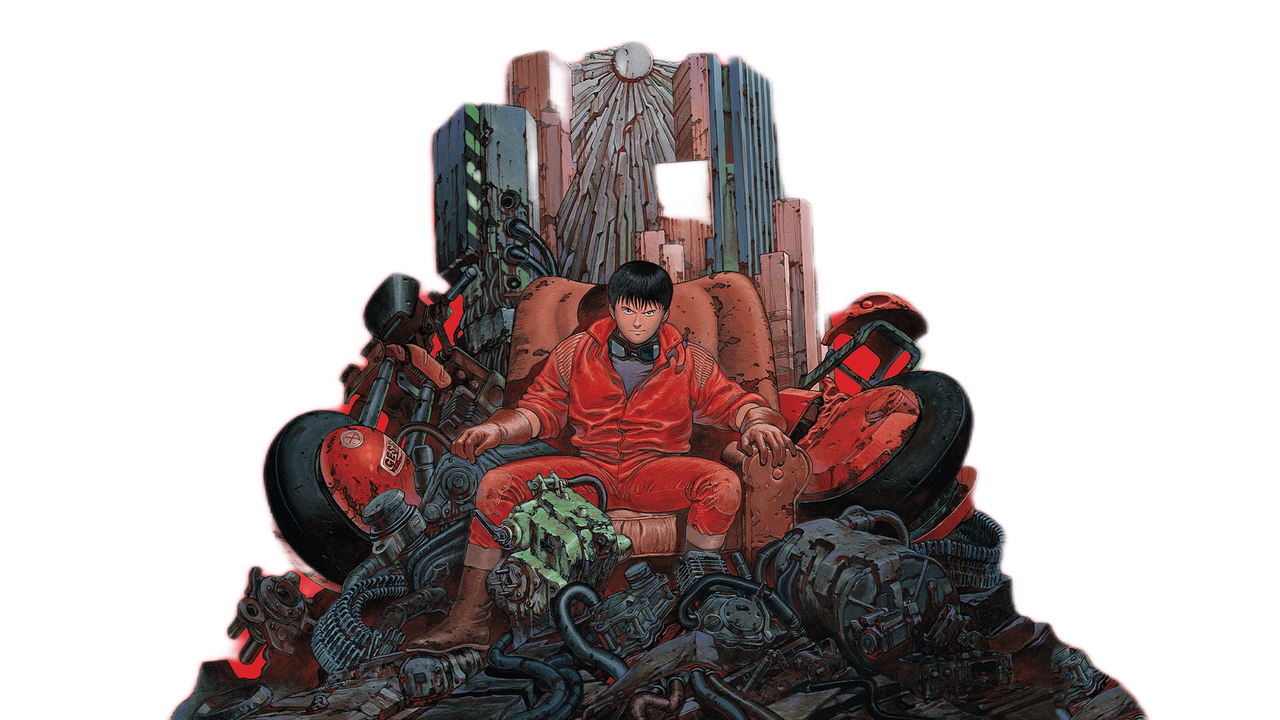
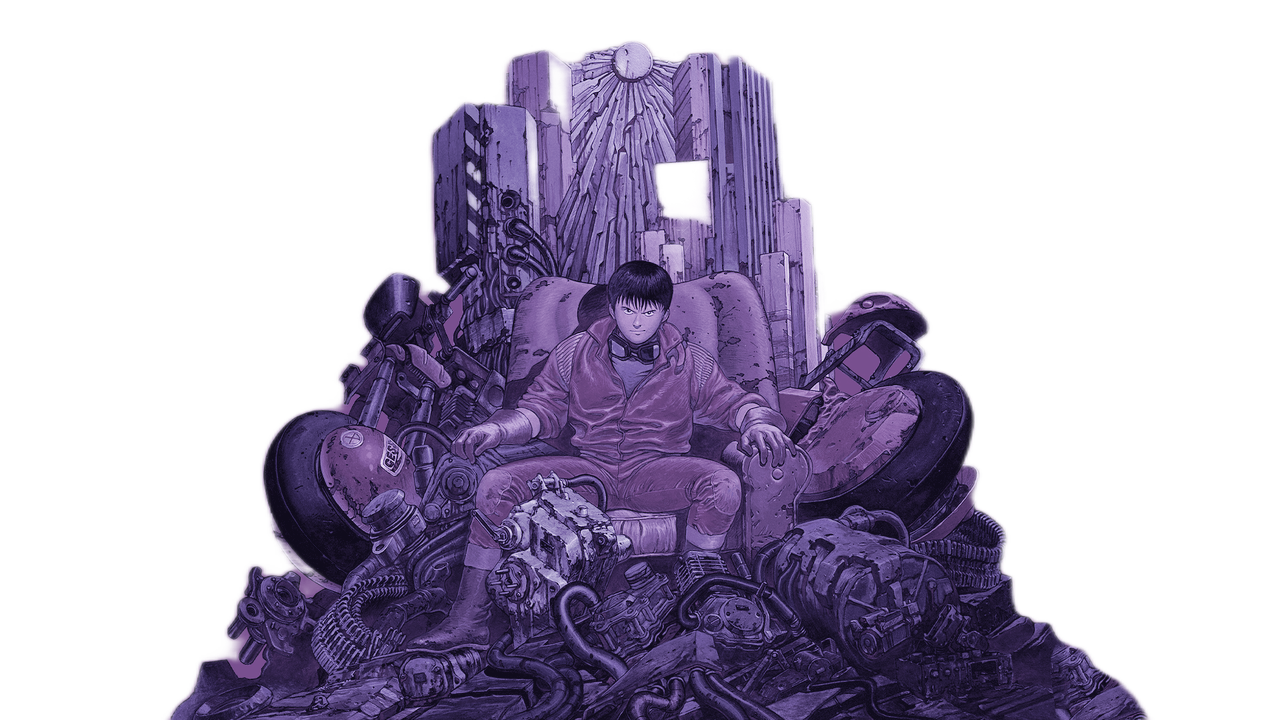
update

diff --git a/README.md b/README.md
@@ -1,14 +1,6 @@
 <h1 align="left">
-  <img src="https://readme-typing-svg.demolab.com?font=Fira+Code&size=25&duration=4000&pause=9999999&color=FF0000&width=500&lines=root%40so1ow4y%3A~%24+whoami" alt="root@so1ow4y:~$ whoami"/>
+  <img src="https://readme-typing-svg.demolab.com?font=Fira+Code&size=25&duration=4000&pause=9999999&color=A78BFA&width=500&lines=root%40so1ow4y%3A~%24+whoami" alt="root@so1ow4y:~$ whoami"/>
 </h1>
-
-<!-- Контакты наверху: рекрутер видит их сразу, ничего не раскрывая -->
-<p align="left">
-  <a href="https://t.me/ere6u5"><img src="https://img.shields.io/badge/Telegram-26A5E4?style=for-the-badge&logo=telegram&logoColor=white" alt="Telegram"/></a>
-  <a href="LINKEDIN_URL"><img src="https://img.shields.io/badge/LinkedIn-0A66C2?style=for-the-badge&logo=linkedin&logoColor=white" alt="LinkedIn"/></a>
-  <a href="HH_URL"><img src="https://img.shields.io/badge/hh.ru-D6001C?style=for-the-badge&logo=hh&logoColor=white" alt="hh.ru"/></a>
-  <a href="https://gitlab.com/so1ow4y"><img src="https://img.shields.io/badge/GitLab-FC6D26?style=for-the-badge&logo=gitlab&logoColor=white" alt="GitLab"/></a>
-</p>
 
 <details open>
 <summary>
@@ -19,29 +11,16 @@
   <img src="assets/pictures/main.png" width="720" alt="so1ow4y"/>
 </p>
 
-```bash
-================================[ ABOUT ME ]================================
-
-[ User: so1ow4y ]
-[ Role: AppSec / DevSecOps Engineer  •  ex-SOC ]
-[ Status: Learning | Growing | Hacking | Resting ]
-
-[ Specialization: Security Overlord | Pentest God | Reverse Engineering Wizard ]
-
-[ Mission: Understand how everything works → then break it properly ]
-[ Motto: "Why have root when you can be root?" ]
-
-[ Languages: Golang | C/C++ | Python | Kotlin | JavaScript | Bash ]
-[ Shells: zsh | bash | Python ]
-[ Editor: vim > everything else ]
-```
+<p align="center">
+  <img src="assets/pictures/about.svg" width="780" alt="About me: AppSec / DevSecOps Engineer, ex-SOC. Focus: application security, DevSecOps, SOC. Exploring pentest and reverse engineering."/>
+</p>
 
 </details>
 
 ---
 
 <h2 align="left">
-  <img src="https://readme-typing-svg.demolab.com?font=Fira+Code&size=25&color=FF0000&duration=4000&pause=9999999&width=600&lines=root%40so1ow4y%3A~%24+activity+report+--hats" alt="root@so1ow4y:~$ activity report --hats"/>
+  <img src="https://readme-typing-svg.demolab.com?font=Fira+Code&size=25&color=A78BFA&duration=4000&pause=9999999&width=600&lines=root%40so1ow4y%3A~%24+activity+report+--hats" alt="root@so1ow4y:~$ activity report --hats"/>
 </h2>
 
 <details>
@@ -50,7 +29,7 @@
 </summary>
 
 <h3 align="left">
-  <img src="https://readme-typing-svg.demolab.com?font=Fira+Code&size=20&color=9370DB&duration=4000&pause=9999999&width=600&lines=purple+hat+-+application+security" alt="purple hat — application security"/>
+  <img src="https://readme-typing-svg.demolab.com?font=Fira+Code&size=20&color=B794F6&duration=4000&pause=9999999&width=600&lines=purple+hat+-+application+security" alt="purple hat — application security"/>
 </h3>
 
 <details>
@@ -58,50 +37,50 @@
 <h4>EXECUTE COMMAND — SHOW OUTPUT</h4>
 </summary>
 
-2+ years deep in the application security battlefield.
-Transforming vulnerabilities into features and building
-security that doesn't slow down development.
-Specializing in making security sexy and automated.
+2+ years in application security.
+I help teams find and fix vulnerabilities early and build security
+into the development process so it doesn't slow anyone down.
+Most of my work is about automating security checks.
 
-***"When security becomes a bottleneck, you're doing it wrong."***
+***"If security becomes a bottleneck, it's time to rethink the process."***
 
 #### `TECHNICAL SKILLS`
 
-| **Security Domain**       | **Technologies & Tools**                          | **Proficiency** |
-|---------------------------|---------------------------------------------------|-----------------|
-| **SAST/DAST**             | Semgrep, CodeQL, SonarQube, OWASP ZAP             | ⭐⭐⭐⭐⭐      |
-| **API Security**          | Postman, Burp Suite, OWASP API Top 10             | ⭐⭐⭐⭐⭐      |
-| **CI/CD Security**        | GitHub Actions, Jenkins, GitLab CI                | ⭐⭐⭐⭐⭐      |
-| **Secure Architecture**   | Threat Modeling, SDLC Integration                 | ⭐⭐⭐⭐        |
-| **Code Review**           | Manual + Automated Audit Techniques               | ⭐⭐⭐⭐⭐      |
-| **DevSecOps**             | Pipeline Security, Automated Testing              | ⭐⭐⭐⭐        |
+| **Security Domain**       | **Technologies & Tools**                          |
+|---------------------------|---------------------------------------------------|
+| **SAST/DAST**             | Semgrep, CodeQL, SonarQube, OWASP ZAP             |
+| **API Security**          | Postman, Burp Suite, OWASP API Top 10             |
+| **CI/CD Security**        | GitHub Actions, Jenkins, GitLab CI                |
+| **Secure Architecture**   | Threat Modeling, SDLC Integration                 |
+| **Code Review**           | Manual + Automated Audit Techniques               |
+| **DevSecOps**             | Pipeline Security, Automated Testing              |
 
-#### `SHOWCASE PROJECTS`
+#### `PROJECTS`
 
 ##### ***OWASP Research Suite***
-[![OWASP API](https://img.shields.io/badge/📖-OWASP_API_Top_10-9370DB?style=for-the-badge)](https://github.com/so1ow4y/owasp-top10-api-vulnerabilities)
-[![OWASP Web](https://img.shields.io/badge/📖-OWASP_Web_Top_10-9370DB?style=for-the-badge)](https://github.com/so1ow4y/owasp-top10-vulnerabilities)
+[![OWASP API](https://img.shields.io/badge/📖-OWASP_API_Top_10-7048B6?style=for-the-badge)](https://github.com/so1ow4y/owasp-top10-api-vulnerabilities)
+[![OWASP Web](https://img.shields.io/badge/📖-OWASP_Web_Top_10-7048B6?style=for-the-badge)](https://github.com/so1ow4y/owasp-top10-vulnerabilities)
 
-*Deep dive into OWASP Top 10 vulnerabilities with practical examples and mitigation strategies*
+*OWASP Top 10 vulnerabilities with practical examples and mitigation strategies*
 
 ##### ***Security Testing Tools***
-[![Juice Shop SAST](https://img.shields.io/badge/🔍-Juice_Shop_SAST_Analysis-9370DB?style=for-the-badge)](https://github.com/so1ow4y/juice-shop-sast-analysis)
-[![Linter Audit](https://img.shields.io/badge/🔧-Security_Linter_Audit-9370DB?style=for-the-badge)](https://github.com/so1ow4y/linter-secure-audit)
+[![Juice Shop SAST](https://img.shields.io/badge/🔍-Juice_Shop_SAST_Analysis-7048B6?style=for-the-badge)](https://github.com/so1ow4y/juice-shop-sast-analysis)
+[![Linter Audit](https://img.shields.io/badge/🔧-Security_Linter_Audit-7048B6?style=for-the-badge)](https://github.com/so1ow4y/linter-secure-audit)
 
-*Advanced SAST analysis and security linter configuration for enterprise-grade code auditing*
+*SAST analysis of OWASP Juice Shop and security linter configuration for code audits*
 
 ##### ***CI/CD Security Pipeline***
-[![Nyx Pipeline](https://img.shields.io/badge/⚡-3_Stage_Security_Pipeline-9370DB?style=for-the-badge)](https://github.com/so1ow4y/nyx)
+[![Nyx Pipeline](https://img.shields.io/badge/⚡-3_Stage_Security_Pipeline-7048B6?style=for-the-badge)](https://github.com/so1ow4y/nyx)
 
-**Architected full security integration into SDLC:**
-- **Test Stage**: Automated SAST/DAST scanning
-- **Build Stage**: Security-hardened container builds
-- **Deploy Stage**: Security validation and compliance checks
+**Security checks built into each stage of the SDLC:**
+- **Test Stage**: automated SAST/DAST scanning
+- **Build Stage**: hardened container builds
+- **Deploy Stage**: security validation and compliance checks
 
 </details>
 
 <h3 align="left">
-  <img src="https://readme-typing-svg.demolab.com?font=Fira+Code&size=20&color=1E90FF&duration=4000&pause=9999999&width=600&lines=blue+hat+-+soc+%26+defensive+security" alt="blue hat — SOC & defensive security"/>
+  <img src="https://readme-typing-svg.demolab.com?font=Fira+Code&size=20&color=7AA2F7&duration=4000&pause=9999999&width=600&lines=blue+hat+-+soc+%26+defensive+security" alt="blue hat — SOC & defensive security"/>
 </h3>
 
 <details>
@@ -109,53 +88,53 @@ Specializing in making security sexy and automated.
 <h4>EXECUTE COMMAND — SHOW OUTPUT</h4>
 </summary>
 
-2+ years on the frontlines of Security Operations.
-Hardening perimeters, automating defenses, and hunting threats.
-Specializing in building resilient security infrastructures that just work.
+2+ years in Security Operations:
+hardening perimeters, automating routine tasks and responding to incidents.
+I like infrastructure that is boring in the best sense — it just works.
 
 ***"Defense is not a state, it's a continuous process."***
 
 #### `TECHNICAL SKILLS`
 
-| **Security Domain**                 | **Technologies & Tools**                          | **Proficiency** |
-|-------------------------------------|---------------------------------------------------|-----------------|
-| **Firewall Administration**         | Check Point, Fortigate, PT AF, Threat Prevention  | ⭐⭐⭐⭐⭐      |
-| **VPN & Cryptography**              | ViPNet, Континент, S-Terra, КриптоПро, GOST       | ⭐⭐⭐⭐⭐      |
-| **DDoS Mitigation**                 | Mitigator, Гарда, Provider Coordination           | ⭐⭐⭐⭐⭐      |
-| **Email Security**                  | Fortimail, Anti-Spam, Anti-Phishing, SEG          | ⭐⭐⭐⭐        |
-| **SIEM & Monitoring**               | Event Analysis, Incident Response, Shift Work     | ⭐⭐⭐⭐⭐      |
-| **Infrastructure & Virtualization** | VMware, VirtualBox, Linux (Bash), Windows Server  | ⭐⭐⭐⭐        |
+| **Security Domain**                 | **Technologies & Tools**                          |
+|-------------------------------------|---------------------------------------------------|
+| **Firewall Administration**         | Check Point, Fortigate, PT AF, Threat Prevention  |
+| **VPN & Cryptography**              | ViPNet, Континент, S-Terra, КриптоПро, GOST       |
+| **DDoS Mitigation**                 | Mitigator, Гарда, Provider Coordination           |
+| **Email Security**                  | Fortimail, Anti-Spam, Anti-Phishing, SEG          |
+| **SIEM & Monitoring**               | Event Analysis, Incident Response, Shift Work     |
+| **Infrastructure & Virtualization** | VMware, VirtualBox, Linux (Bash), Windows Server  |
 
-#### `KEY ACHIEVEMENTS`
+#### `EXPERIENCE`
 
 ##### ***SOC Automation & Tooling***
-**Scripted mass network device configuration over SSH (Python)**, cutting deployment time and eliminating human error in critical security changes.
+Wrote Python scripts for mass network device configuration over SSH — faster rollouts and fewer manual mistakes in critical changes.
 
-##### ***Complex Incident Management***
-**Led mitigation of large-scale DDoS attacks**, coordinating with providers and managing blacklists to keep client services available.
+##### ***Incident Response***
+Took part in mitigating large-scale DDoS attacks: coordinated with providers and maintained blacklists to keep client services available.
 
 ##### ***Infrastructure Hardening***
-**Administered a full stack of defensive systems (Firewalls, VPN, HSMs, Mail Gateways)**, ensuring policy optimization, threat prevention, and cryptographic compliance across hybrid environments.
+Administered firewalls, VPN, HSMs and mail gateways: policy tuning, threat prevention and cryptographic compliance in hybrid environments.
 
 ##### ***Security as a Service***
-**Delivered security outsourcing for multiple clients**, from daily monitoring and backup management to in-depth analysis and consulting on secure service configuration.
+Supported several outsourcing clients: daily monitoring, backups, analysis and advice on secure service configuration.
 
 </details>
 
 <h3 align="left">
-  <img src="https://readme-typing-svg.demolab.com?font=Fira+Code&size=20&color=FF0000&duration=4000&pause=9999999&width=600&lines=red+hat+-+offensive+security" alt="red hat — offensive security"/>
+  <img src="https://readme-typing-svg.demolab.com?font=Fira+Code&size=20&color=C2415B&duration=4000&pause=9999999&width=600&lines=red+hat+-+offensive+security" alt="red hat — offensive security"/>
 </h3>
 
-```bash
+```text
 $ ./red_hat --status
 [*] loading module... in progress
 ```
 
 <h3 align="left">
-  <img src="https://readme-typing-svg.demolab.com?font=Fira+Code&size=20&color=00FF00&duration=4000&pause=9999999&width=600&lines=green+hat+-+always+learning" alt="green hat — always learning"/>
+  <img src="https://readme-typing-svg.demolab.com?font=Fira+Code&size=20&color=8FBC9F&duration=4000&pause=9999999&width=600&lines=green+hat+-+always+learning" alt="green hat — always learning"/>
 </h3>
 
-```bash
+```text
 $ ./green_hat --status
 [*] loading module... in progress
 ```
@@ -165,7 +144,7 @@ $ ./green_hat --status
 ---
 
 <h2 align="left">
-  <img src="https://readme-typing-svg.demolab.com?font=Fira+Code&size=25&color=FF0000&duration=4000&pause=9999999&width=600&lines=root%40so1ow4y%3A~%24+github+--analytics" alt="root@so1ow4y:~$ github --analytics"/>
+  <img src="https://readme-typing-svg.demolab.com?font=Fira+Code&size=25&color=A78BFA&duration=4000&pause=9999999&width=600&lines=root%40so1ow4y%3A~%24+github+--analytics" alt="root@so1ow4y:~$ github --analytics"/>
 </h2>
 
 <details>
@@ -173,34 +152,32 @@ $ ./green_hat --status
 <h3>EXECUTE COMMAND — SHOW OUTPUT</h3>
 </summary>
 
-<div align="center">
+<p align="center">
+  <a href="https://github.com/so1ow4y">
+    <img src="https://github-readme-stats.vercel.app/api?username=so1ow4y&show_icons=true&include_all_commits=true&count_private=true&bg_color=0d1117&title_color=a78bfa&text_color=e6e1f0&icon_color=a78bfa&ring_color=a78bfa&border_color=3b2a5c&border_radius=10" alt="GitHub stats" height="170"/>
+  </a>
+  <a href="https://github.com/so1ow4y?tab=repositories">
+    <img src="https://github-readme-stats.vercel.app/api/top-langs/?username=so1ow4y&layout=compact&bg_color=0d1117&title_color=a78bfa&text_color=e6e1f0&border_color=3b2a5c&border_radius=10" alt="Top languages" height="170"/>
+  </a>
+</p>
 
-<a href="https://github.com/so1ow4y">
-  <img src="https://github-readme-stats.vercel.app/api?username=so1ow4y&show_icons=true&theme=dark&bg_color=00000000&title_color=ff0000&text_color=ffffff&icon_color=ff0000&border_color=ff0000&include_all_commits=true&count_private=true" alt="Stats" height="165"/>
-</a>
-<a href="https://github.com/so1ow4y?tab=repositories">
-  <img src="https://github-readme-stats.vercel.app/api/top-langs/?username=so1ow4y&layout=compact&theme=dark&bg_color=00000000&title_color=ff0000&text_color=ffffff&border_color=ff0000" alt="Top Langs" height="165"/>
-</a>
+<p align="center">
+  <img src="https://streak-stats.demolab.com/?user=so1ow4y&background=0D1117&border=3B2A5C&stroke=3B2A5C&ring=A78BFA&fire=C4B5FD&currStreakNum=E6E1F0&sideNums=E6E1F0&currStreakLabel=A78BFA&sideLabels=E6E1F0&dates=8B7FA8&border_radius=10" alt="GitHub streak" height="170"/>
+</p>
 
-<img src="https://streak-stats.demolab.com/?user=so1ow4y&theme=dark&background=00000000&border=ff0000&stroke=ff0000&ring=ff0000&fire=ff0000&currStreakNum=ffffff&sideNums=ffffff&currStreakLabel=ff0000&sideLabels=ffffff&dates=aaaaaa" alt="Streak" height="165"/>
-
-<img src="https://github-readme-activity-graph.vercel.app/graph?username=so1ow4y&theme=redical&bg_color=00000000&color=ff0000&line=ff0000&point=ffffff&area=true&hide_border=true" alt="Activity Graph" height="265"/>
-
-<picture>
-  <source media="(prefers-color-scheme: dark)" srcset="https://raw.githubusercontent.com/so1ow4y/so1ow4y/output/github-snake-dark.svg"/>
-  <source media="(prefers-color-scheme: light)" srcset="https://raw.githubusercontent.com/so1ow4y/so1ow4y/output/github-snake.svg"/>
-  <img src="https://raw.githubusercontent.com/so1ow4y/so1ow4y/output/github-snake-dark.svg" alt="Snake eating contributions"/>
-</picture>
-
-</div>
+<p align="center">
+  <img src="assets/dist/github-contribution-grid-snake-dark.svg" alt="Snake eating contributions"/>
+</p>
 
 </details>
 
 <!--
   Раздел сертификатов скрыт, пока он пустой. Чтобы вернуть, раскомментируй блок ниже.
 
+---
+
 <h2 align="left">
-  <img src="https://readme-typing-svg.demolab.com?font=Fira+Code&size=25&color=FF0000&duration=4000&pause=9999999&width=600&lines=root%40so1ow4y%3A~%24+certs+--show" alt="root@so1ow4y:~$ certs --show"/>
+  <img src="https://readme-typing-svg.demolab.com?font=Fira+Code&size=25&color=A78BFA&duration=4000&pause=9999999&width=600&lines=root%40so1ow4y%3A~%24+certs+--show" alt="root@so1ow4y:~$ certs --show"/>
 </h2>
 
 <details>
@@ -218,7 +195,7 @@ $ ./green_hat --status
 ---
 
 <h2 align="left">
-  <img src="https://readme-typing-svg.demolab.com?font=Fira+Code&size=25&color=FF0000&duration=4000&pause=9999999&width=600&lines=root%40so1ow4y%3A~%24+contact+--info" alt="root@so1ow4y:~$ contact --info"/>
+  <img src="https://readme-typing-svg.demolab.com?font=Fira+Code&size=25&color=A78BFA&duration=4000&pause=9999999&width=600&lines=root%40so1ow4y%3A~%24+contact+--info" alt="root@so1ow4y:~$ contact --info"/>
 </h2>
 
 <details>
@@ -230,16 +207,16 @@ $ ./green_hat --status
 
 | Platform | Badge | Description |
 |:--------:|:-----:|:------------|
-| **Telegram** | [![Telegram](https://img.shields.io/badge/-Telegram-26A5E4?style=for-the-badge&logo=telegram&logoColor=white)](https://t.me/ere6u5) | Fastest way to reach me |
-| **LinkedIn** | [![LinkedIn](https://img.shields.io/badge/-LinkedIn-0A66C2?style=for-the-badge&logo=linkedin&logoColor=white)](LINKEDIN_URL) | Professional profile |
-| **hh.ru** | [![hh.ru](https://img.shields.io/badge/-hh.ru-D6001C?style=for-the-badge&logo=hh&logoColor=white)](HH_URL) | CV & career history |
-| **GitHub** | [![GitHub](https://img.shields.io/badge/-GitHub-000000?style=for-the-badge&logo=github&logoColor=white)](https://github.com/so1ow4y) | Main code repository and projects |
-| **GitLab** | [![GitLab](https://img.shields.io/badge/-GitLab-FC6D26?style=for-the-badge&logo=gitlab&logoColor=white)](https://gitlab.com/so1ow4y) | Alternative projects and CI/CD |
+| **Telegram** | [![Telegram](https://img.shields.io/badge/-Telegram-5B3F8C?style=for-the-badge&logo=telegram&logoColor=E6E1F0)](https://t.me/ere6u5) | Fastest way to reach me |
+| **LinkedIn** | [![LinkedIn](https://img.shields.io/badge/-LinkedIn-5B3F8C?style=for-the-badge&logo=linkedin&logoColor=E6E1F0)](LINKEDIN_URL) | Professional profile |
+| **hh.ru** | [![hh.ru](https://img.shields.io/badge/-hh.ru-5B3F8C?style=for-the-badge&logo=hh&logoColor=E6E1F0)](HH_URL) | CV & career history |
+| **GitHub** | [![GitHub](https://img.shields.io/badge/-GitHub-5B3F8C?style=for-the-badge&logo=github&logoColor=E6E1F0)](https://github.com/so1ow4y) | Main code repository and projects |
+| **GitLab** | [![GitLab](https://img.shields.io/badge/-GitLab-5B3F8C?style=for-the-badge&logo=gitlab&logoColor=E6E1F0)](https://gitlab.com/so1ow4y) | Alternative projects and CI/CD |
 
 #### `COMMUNITY & REACH`
 
-[![Visitors](https://visitor-badge.laobi.icu/badge?page_id=so1ow4y.so1ow4y&color=ff0000)](https://github.com/so1ow4y)
-[![GitHub Followers](https://img.shields.io/github/followers/so1ow4y?logo=github&label=Followers&color=ff0000&style=flat-square)](https://github.com/so1ow4y)
-[![GitHub Stars](https://img.shields.io/github/stars/so1ow4y?logo=github&label=Stars&color=ff0000&style=flat-square)](https://github.com/so1ow4y)
+[![Visitors](https://visitor-badge.laobi.icu/badge?page_id=so1ow4y.so1ow4y&color=7048b6)](https://github.com/so1ow4y)
+[![GitHub Followers](https://img.shields.io/github/followers/so1ow4y?logo=github&label=Followers&color=7048B6&style=flat-square)](https://github.com/so1ow4y)
+[![GitHub Stars](https://img.shields.io/github/stars/so1ow4y?logo=github&label=Stars&color=7048B6&style=flat-square)](https://github.com/so1ow4y)
 
 </details>
